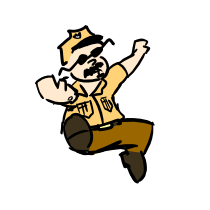
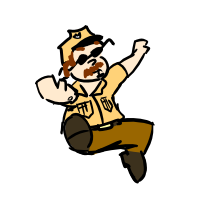
i only gonna break my heart

Changed region(s): [[0.2857, 0.2, 0.4, 0.3714], [0.3714, 0.2857, 0.5143, 0.3714], [0.4286, 0.2, 0.4857, 0.2286]]

diff --git a/src/rosalila/studio/hackatonpinocho/FightActivity.java b/src/rosalila/studio/hackatonpinocho/FightActivity.java
@@ -17,7 +17,6 @@ import org.andengine.entity.util.FPSLogger;
 import org.andengine.extension.physics.box2d.PhysicsConnector;
 import org.andengine.extension.physics.box2d.PhysicsFactory;
 import org.andengine.extension.physics.box2d.PhysicsWorld;
-import org.andengine.extension.physics.box2d.util.Vector2Pool;
 import org.andengine.extension.physics.box2d.util.constants.PhysicsConstants;
 import org.andengine.input.touch.TouchEvent;
 import org.andengine.opengl.texture.TextureOptions;
@@ -54,6 +53,9 @@ public class FightActivity extends SimpleBaseGameActivity implements IOnAreaTouc
 	protected static final String TAG = FightActivity.class.getSimpleName();
 	private BitmapTextureAtlas mBitmapTextureAtlas;
 	private TiledTextureRegion mFaceTextureRegion;
+	
+	private BitmapTextureAtlas m2BitmapTextureAtlas;
+	private TiledTextureRegion m2FaceTextureRegion;
 
 	
 	private BitmapTextureAtlas bgBitmapTextureAtlas;
@@ -73,6 +75,9 @@ public class FightActivity extends SimpleBaseGameActivity implements IOnAreaTouc
 	
 	private BitmapTextureAtlas koBitmapTextureAtlas;
 	private TiledTextureRegion koFaceTextureRegion;
+	
+	private BitmapTextureAtlas buttonBitmapTextureAtlas;
+	private TiledTextureRegion buttonTextureRegion;
 
 	ArrayList<Sprite> victories_player1;
 	ArrayList<Sprite> victories_player2;
@@ -82,8 +87,9 @@ public class FightActivity extends SimpleBaseGameActivity implements IOnAreaTouc
 	Sprite ko;
 	
 	int ROUNDS = 5;
-	int PLAYER1_INITIAL_X = 1280/2-400;
-	int PLAYER2_INITIAL_X = 1280/2+400;
+	float PLAYER1_INITIAL_X = 1280/2-400-210/2;
+	float PLAYER2_INITIAL_X = 1280/2+400-210/2;
+	int INITIAL_Y = 400;
 	
 	private Player player1,player2;
 	
@@ -106,8 +112,11 @@ public class FightActivity extends SimpleBaseGameActivity implements IOnAreaTouc
 	@Override
 	public EngineOptions onCreateEngineOptions() {
 		final Camera camera = new Camera(0, 0, GameConstants.CAMERA_WIDTH, GameConstants.CAMERA_HEIGHT);
+		
+		EngineOptions engineOptions = new EngineOptions(true, ScreenOrientation.LANDSCAPE_FIXED, new RatioResolutionPolicy(GameConstants.CAMERA_WIDTH, GameConstants.CAMERA_HEIGHT), camera);
+		engineOptions.getTouchOptions().setNeedsMultiTouch(true);
 
-		return new EngineOptions(true, ScreenOrientation.LANDSCAPE_FIXED, new RatioResolutionPolicy(GameConstants.CAMERA_WIDTH, GameConstants.CAMERA_HEIGHT), camera);
+		return engineOptions;
 	}
 
 	@Override
@@ -122,6 +131,15 @@ public class FightActivity extends SimpleBaseGameActivity implements IOnAreaTouc
 				"4.png",
 				"5.png");
 		this.mBitmapTextureAtlas.load();
+		
+		this.m2BitmapTextureAtlas = new BitmapTextureAtlas(this.getTextureManager(), 1024, 1024, TextureOptions.BILINEAR);
+		this.m2FaceTextureRegion = Util.createTiledTextureRegionFromAsset(getTextureManager(), this, 210, 210, 
+				"z1.png",
+				"z2.png",
+				"z3.png",
+				"z4.png",
+				"z5.png");
+		this.m2BitmapTextureAtlas.load();
 		
 		this.bgBitmapTextureAtlas = new BitmapTextureAtlas(this.getTextureManager(), 1280, 720, TextureOptions.BILINEAR);
 		this.bgFaceTextureRegion = BitmapTextureAtlasTextureRegionFactory.createTiledFromAsset(this.bgBitmapTextureAtlas, this, "background.png", 0, 0, 1, 1);
@@ -146,6 +164,11 @@ public class FightActivity extends SimpleBaseGameActivity implements IOnAreaTouc
 		this.koBitmapTextureAtlas = new BitmapTextureAtlas(this.getTextureManager(), 687, 460, TextureOptions.BILINEAR);
 		this.koFaceTextureRegion = BitmapTextureAtlasTextureRegionFactory.createTiledFromAsset(this.koBitmapTextureAtlas, this, "knockout.png", 0, 0, 1, 1);
 		this.koBitmapTextureAtlas.load();
+		
+		this.buttonBitmapTextureAtlas = new BitmapTextureAtlas(this.getTextureManager(), 687, 460, TextureOptions.BILINEAR);
+		this.buttonTextureRegion = BitmapTextureAtlasTextureRegionFactory.createTiledFromAsset(this.buttonBitmapTextureAtlas, this, "button.png", 0, 0, 1, 1);
+		this.buttonBitmapTextureAtlas.load();
+		
 	}
 
 	@Override
@@ -164,10 +187,12 @@ public class FightActivity extends SimpleBaseGameActivity implements IOnAreaTouc
 		
 		final Sprite background = new Sprite(0,0,this.bgFaceTextureRegion,this.getVertexBufferObjectManager());
 
-		player1 = new Player(centerX, centerY, this.mFaceTextureRegion, this.getVertexBufferObjectManager(), mPhysicsWorld,1);
-		player2 = new Player(centerX+200, centerY, this.mFaceTextureRegion, this.getVertexBufferObjectManager(), mPhysicsWorld,2);
-		final ButtonKick btn_kick1 = new ButtonKick(0, 0, this.mFaceTextureRegion, this.getVertexBufferObjectManager(),player1,this);
-		final ButtonKick btn_kick2 = new ButtonKick(1280-this.mFaceTextureRegion.getWidth(), 0, this.mFaceTextureRegion, this.getVertexBufferObjectManager(),player2,this);
+		player1 = new Player(PLAYER1_INITIAL_X, INITIAL_Y, this.mFaceTextureRegion, this.getVertexBufferObjectManager(), mPhysicsWorld,1);
+		player2 = new Player(PLAYER2_INITIAL_X, INITIAL_Y, this.m2FaceTextureRegion, this.getVertexBufferObjectManager(), mPhysicsWorld,2);
+		player1.opponent=player2;
+		player2.opponent=player1;
+		final ButtonKick btn_kick1 = new ButtonKick(0, 0, this.buttonTextureRegion, this.getVertexBufferObjectManager(),player1,this);
+		final ButtonKick btn_kick2 = new ButtonKick(1280-this.buttonTextureRegion.getWidth(), 0, this.buttonTextureRegion, this.getVertexBufferObjectManager(),player2,this);
 		
 		victories_player1=new ArrayList<Sprite>();
 		victories_player2=new ArrayList<Sprite>();
@@ -201,9 +226,9 @@ public class FightActivity extends SimpleBaseGameActivity implements IOnAreaTouc
 			mScene.attachChild(victories_player1.get(i));
 		for(int i=0;i<victories_player2.size();i++)
 			mScene.attachChild(victories_player2.get(i));
+		mScene.attachChild(ko);
 		mScene.attachChild(player1_wins);
 		mScene.attachChild(player2_wins);
-		mScene.attachChild(ko);
 		
 		mScene.registerTouchArea(btn_kick1);
 		mScene.registerTouchArea(btn_kick2);
@@ -241,9 +266,9 @@ public class FightActivity extends SimpleBaseGameActivity implements IOnAreaTouc
 			boolean game_over = false;
 			for(int i=0;i<victories_player2.size();i++)
 			{
-				ko.setVisible(true);
 				if(!victories_player2.get(i).isVisible())
 				{
+					ko.setVisible(true);
 					victories_player2.get(i).setVisible(true);
 					if(i==victories_player2.size()-1)
 						game_over=true;
@@ -312,33 +337,34 @@ public class FightActivity extends SimpleBaseGameActivity implements IOnAreaTouc
 			if (pSceneTouchEvent.isActionDown())
 			{
 				this.setAlpha(1.0f);
-				if(fight_activity.player1_wins.isVisible()
-				|| fight_activity.player2_wins.isVisible())
-				{
-					System.exit(0);
-				}
+				
 				if(fight_activity.ko.isVisible())
 				{
 					fight_activity.resetRound();
 				}else
 				{
-					fight_activity.playerWinsRound(mPlayer.number);
+					//fight_activity.playerWinsRound(mPlayer.number);
+					if (!mPlayer.isMoving()) {
+						Log.d(TAG, "On Ground");
+						mPlayer.jump();	
+					} else {
+						Log.d(TAG, "Jumping");
+						mPlayer.dive();
+					}
 				}
 				
 				this.setAlpha(1.0f);			
-				fight_activity.playerWinsRound(mPlayer.number);
-				
-				if (!mPlayer.isMoving()) {
-					Log.d(TAG, "On Ground");
-					mPlayer.jump();	
-				} else {
-					Log.d(TAG, "Jumping");
-					mPlayer.dive();
-				}
 			}
 			
 			if (pSceneTouchEvent.isActionUp())	{
 				this.setAlpha(0.5f);
+				
+				if(fight_activity.player1_wins.isVisible()
+				|| fight_activity.player2_wins.isVisible())
+				{
+					//System.exit(0);
+					fight_activity.finish();
+				}
 			}
 			
 			
@@ -350,10 +376,12 @@ public class FightActivity extends SimpleBaseGameActivity implements IOnAreaTouc
 	void resetRound()
 	{
 		ko.setVisible(false);
-		player1.mBody.setTransform(PLAYER1_INITIAL_X/PhysicsConstants.PIXEL_TO_METER_RATIO_DEFAULT, 720/PhysicsConstants.PIXEL_TO_METER_RATIO_DEFAULT, 0);
-		player2.mBody.setTransform(PLAYER2_INITIAL_X/PhysicsConstants.PIXEL_TO_METER_RATIO_DEFAULT, 720/PhysicsConstants.PIXEL_TO_METER_RATIO_DEFAULT, 0);
+		player1.mBody.setTransform((PLAYER1_INITIAL_X+210.0f/2.0f)/PhysicsConstants.PIXEL_TO_METER_RATIO_DEFAULT, INITIAL_Y/PhysicsConstants.PIXEL_TO_METER_RATIO_DEFAULT, 0);
+		player2.mBody.setTransform((PLAYER2_INITIAL_X+210.0f/2.0f)/PhysicsConstants.PIXEL_TO_METER_RATIO_DEFAULT, INITIAL_Y/PhysicsConstants.PIXEL_TO_METER_RATIO_DEFAULT, 0);
 		player1.mBody.setLinearVelocity(new Vector2(0,0));
 		player2.mBody.setLinearVelocity(new Vector2(0,0));
+		player1.setCurrentTileIndex(0);
+		player2.setCurrentTileIndex(0);
 	}
 
 	@Override
@@ -412,19 +440,32 @@ public class FightActivity extends SimpleBaseGameActivity implements IOnAreaTouc
 			    
 			    if (dataA instanceof Player && dataB.equals("roof")) {
 			        Player p = (Player)dataA;
-			        p.setCurrentTileIndex(0);
+			        if(p.getCurrentTileIndex()!=4)//dead
+			        	p.setCurrentTileIndex(0);
+			        p.mBody.setLinearVelocity(new Vector2(0,0));
 			    } else if (dataB instanceof Player && dataA.equals("roof")) {
 			    	Player p = (Player)dataA;
-			        p.setCurrentTileIndex(0);
+			    	if(p.getCurrentTileIndex()!=4)//dead
+			    		p.setCurrentTileIndex(0);
+			        p.mBody.setLinearVelocity(new Vector2(0,0));
 			    } else if (dataA instanceof Player && dataB instanceof Player) {
 			    	Player playerA = (Player)dataA;
 			    	Player playerB = (Player)dataB;
 			    	
-			    	if (playerA.getY() > playerB.getY()) {
-			    		playerWinsRound(1);
-			    	} else {
-			    		playerWinsRound(2);
-			    	}
+		    		if(!ko.isVisible()
+		    				&&!player1_wins.isVisible()
+		    				&&!player2_wins.isVisible())
+		    		{
+				    	if (playerA.getY() > playerB.getY())
+				    	{
+				    		playerA.setCurrentTileIndex(4);
+				    		playerWinsRound(2);
+				    	} else
+				    	{
+				    		playerB.setCurrentTileIndex(4);
+				    		playerWinsRound(1);
+				    	}
+		    		}
 			    }
 			}
 		};

diff --git a/src/rosalila/studio/hackatonpinocho/Player.java b/src/rosalila/studio/hackatonpinocho/Player.java
@@ -5,11 +5,13 @@ import org.andengine.extension.physics.box2d.PhysicsConnector;
 import org.andengine.extension.physics.box2d.PhysicsFactory;
 import org.andengine.extension.physics.box2d.PhysicsWorld;
 import org.andengine.extension.physics.box2d.util.Vector2Pool;
+import org.andengine.extension.physics.box2d.util.constants.PhysicsConstants;
 import org.andengine.opengl.texture.region.TiledTextureRegion;
 import org.andengine.opengl.vbo.VertexBufferObjectManager;
 
 import com.badlogic.gdx.math.Vector2;
 import com.badlogic.gdx.physics.box2d.Body;
+import com.badlogic.gdx.physics.box2d.MassData;
 import com.badlogic.gdx.physics.box2d.BodyDef.BodyType;
 import com.badlogic.gdx.physics.box2d.FixtureDef;
 
@@ -22,11 +24,14 @@ public  class Player extends AnimatedSprite {
 	private FacingSide mSide;
 	private boolean mIsOnGround;
 	int number;
+	boolean was_moving;
 	
-	private Vector2 mDesiredSpeed = new Vector2(0.0f, 20.0f);
+	private Vector2 mDesiredSpeed = new Vector2(0.0f, 45.0f);
 	
 	private boolean mPendingJump;
 	private boolean mPendingDive;
+	
+	Player opponent;
 	
 	public static enum FacingSide {
 	    Right, Left	
@@ -57,35 +62,68 @@ public  class Player extends AnimatedSprite {
 	
 	public void onManagedUpdate(float elapsedSeconds) {
 		super.onManagedUpdate(elapsedSeconds);
+		
+		if(this.mBody.getPosition().x<opponent.mBody.getPosition().x)
+			this.setFlipped(false, false);
+		else
+			this.setFlipped(true, false);
 	
 		
-		if (mPendingJump) {
+		if (mPendingJump)
+		{
+			mDesiredSpeed.x=(float)((Math.random()*1000.0f)%60)-30.0f;
 			changeSpeed(mDesiredSpeed);
 			mPendingJump = false;
 		}
 			
-		if (mPendingDive) {
+		if (mPendingDive) 
+		{
 			Vector2 desiredVel = Vector2Pool.obtain();
-			switch (mSide) {
-			case Right:
-				desiredVel.x = 80.0f;
-				desiredVel.y = -20.0f;
-				break;
-				
-			case Left:
-				desiredVel.x = -80.0f;
-				desiredVel.y = -20.0f;
-				break;
+			if(this.mBody.getPosition().x<opponent.mBody.getPosition().x)
+			{
+				desiredVel.x = 20.0f;
+				desiredVel.y = 30.0f;
+			}else
+			{
+				desiredVel.x = -20.0f;
+				desiredVel.y = 30.0f;
 			}
-			
 			changeSpeed(desiredVel);			
 			Vector2Pool.recycle(desiredVel);
 			mPendingDive = false;
 		}
+		
+//		if(was_moving && !isMoving())
+//			this.mBody.setLinearVelocity(new Vector2(0,0));
+//		was_moving=isMoving();
+		
+//		if(this.getY() < GameConstants.CAMERA_HEIGHT - 300)
+//			this.mBody.setTransform(this.mBody.getTransform().getPosition().x,
+//					(GameConstants.CAMERA_HEIGHT - 300)/PhysicsConstants.PIXEL_TO_METER_RATIO_DEFAULT,
+//					0.0f);
+		
+//		if (mPendingDive) {
+//		Vector2 desiredVel = Vector2Pool.obtain();
+//		switch (mSide) {
+//		case Right:
+//			desiredVel.x = 30.0f;
+//			desiredVel.y = 30.0f;
+//			break;
+//			
+//		case Left:
+//			desiredVel.x = -30.0f;
+//			desiredVel.y = 30.0f;
+//			break;
+//		}
+//		
+//		changeSpeed(desiredVel);			
+//		Vector2Pool.recycle(desiredVel);
+//		mPendingDive = false;
+//	}
 	}
 	
 	public boolean isMoving() {
-		return this.getY() < GameConstants.CAMERA_HEIGHT - 300;
+		return this.getY() <= GameConstants.CAMERA_HEIGHT - 300;
 	}
 	
 	private void changeSpeed(Vector2 desiredSpeed) {

diff --git a/src/rosalila/studio/hackatonpinocho/GameActivity.java b/src/rosalila/studio/hackatonpinocho/GameActivity.java
@@ -127,10 +127,14 @@ public class GameActivity extends BaseGameActivity {
 		mMainMenuScene.setOnSceneTouchListener(new IOnSceneTouchListener() {
 			
 			@Override
-			public boolean onSceneTouchEvent(Scene pScene, TouchEvent pSceneTouchEvent) {
-				Intent intent = new Intent(GameActivity.this, FightActivity.class);
-				startActivity(intent);      
-				finish();
+			public boolean onSceneTouchEvent(Scene pScene, TouchEvent pSceneTouchEvent)
+			{
+				if(pSceneTouchEvent.isActionDown())
+				{
+						Intent intent = new Intent(GameActivity.this, FightActivity.class);
+						startActivity(intent);      
+//						finish();
+				}
 				return false;
 			}
 		});
